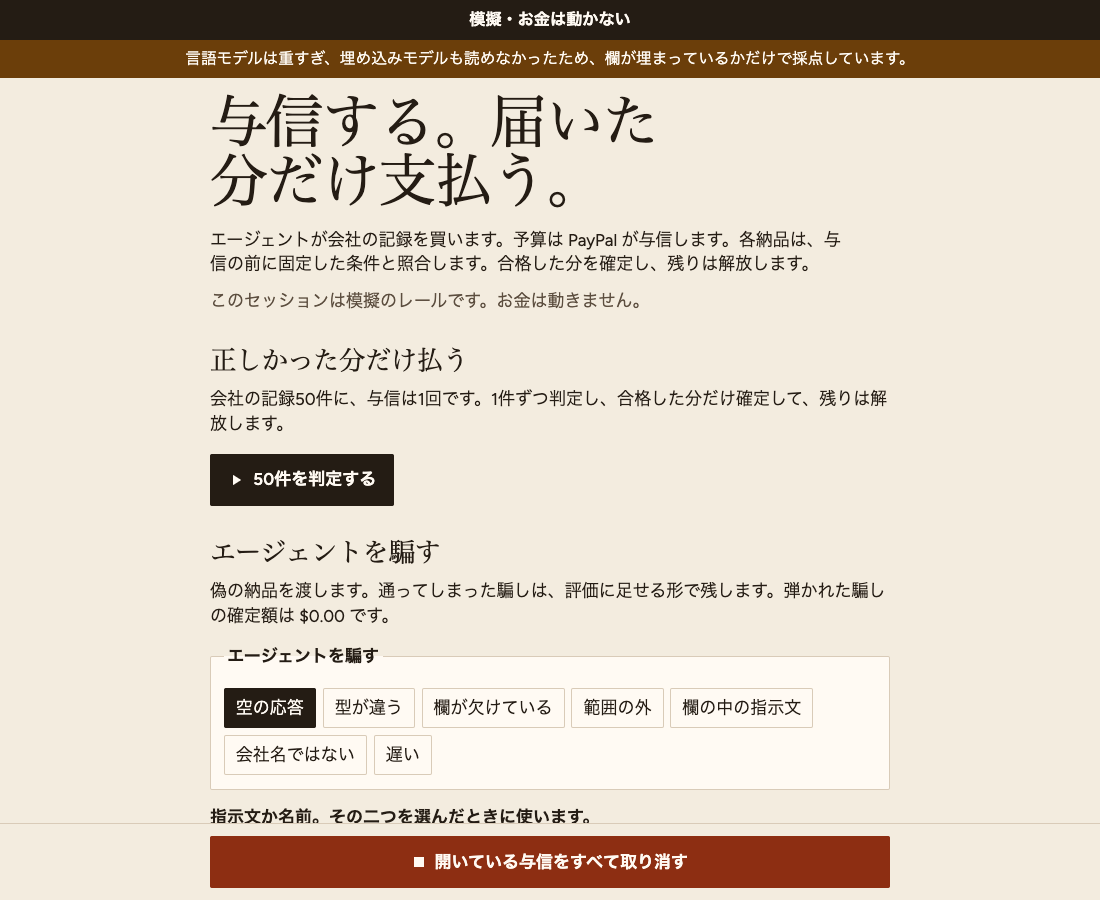
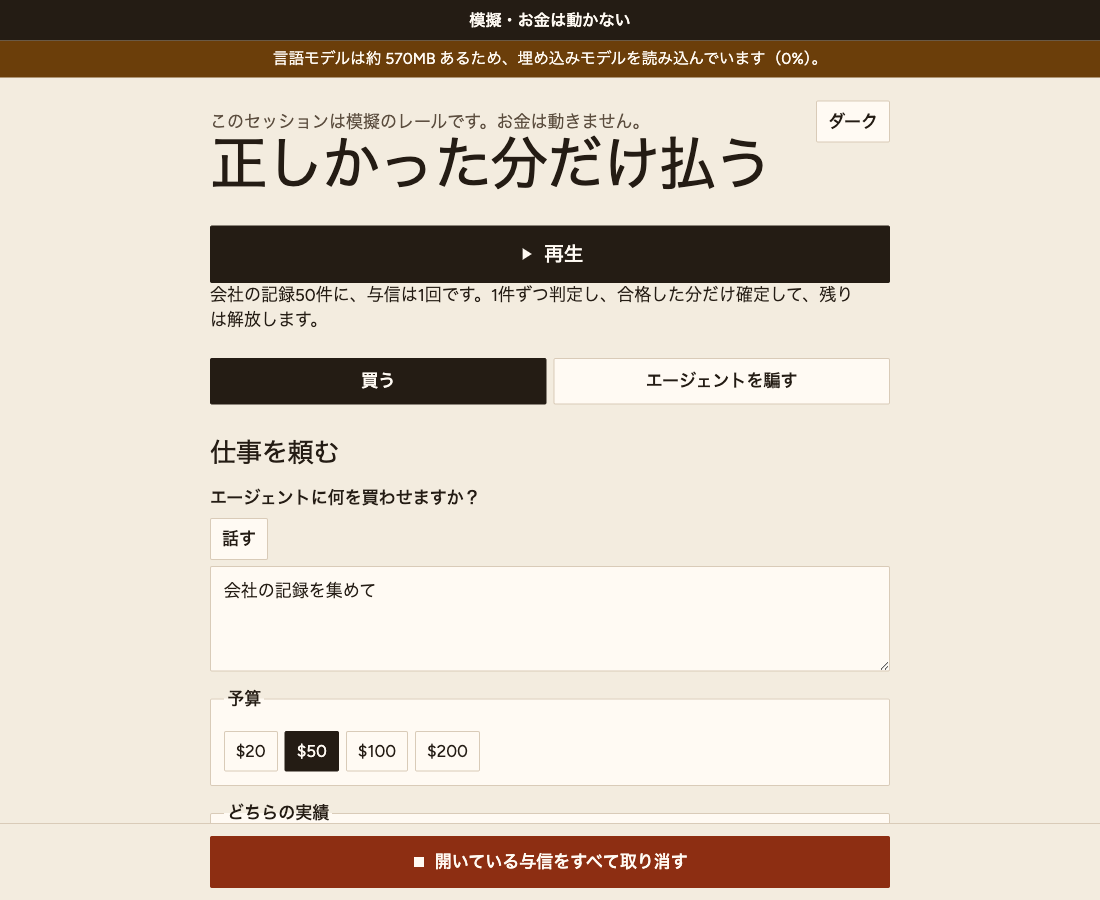
docs: time the first CAPTURED and retake the screens
Headless Chromium, not the Chrome app, reaches CAPTURED in 0.58s from navigation, and the saved frames are the 375px page, dark mode, and keyboard focus.

diff --git a/scripts/static-screens.ts b/scripts/static-screens.ts
@@ -1,5 +1,5 @@
 /**
- * Screenshots of the static demo. No dev server and no Google Chrome:
+ * Screenshots of the static demo, and the time from arrival to the first CAPTURED.
  * Playwright's own headless Chromium opens dist-static/index.html as a file.
  * No Google Chrome, and no dev server.
  * Build first with `npm run build:static`.
@@ -18,83 +18,91 @@ async function overflow(page: Page): Promise<number> {
 }
 
 async function played(page: Page): Promise<void> {
-  await page.getByTestId("demo-play").click();
-  await page.getByTestId("demo-left-status").waitFor();
-  const left = (await page.getByTestId("demo-left-status").innerText()).trim();
-  const right = (await page.getByTestId("demo-right-status").innerText()).trim();
-  if (left !== "CAPTURED" || right !== "VOIDED") throw new Error(`demo showed ${left} / ${right}`);
+  await page.getByTestId("pay-per-truth-play").click();
+  await page.getByTestId("first-captured").waitFor();
+  const word = (await page.getByTestId("first-captured").innerText()).trim();
+  if (word !== "CAPTURED") throw new Error(`first status was ${word}`);
 }
 
-const browser = await chromium.launch({ headless: true });
+const browser = await chromium.launch({
+  headless: true,
+  ...(process.env.PLAYWRIGHT_CHROMIUM ? { executablePath: process.env.PLAYWRIGHT_CHROMIUM } : {}),
+});
 
 try {
   await mkdir(out, { recursive: true });
-  const desktop = await browser.newPage({ viewport: { width: 1100, height: 900 } });
   const problems: string[] = [];
-  desktop.on("pageerror", (error) => problems.push(error.message));
-  await desktop.goto(pageUrl);
-  await desktop.getByTestId("sim-banner").waitFor();
-  const banner = (await desktop.getByTestId("sim-banner").innerText()).trim();
-  if (banner !== "Simulated. No money moves.") throw new Error(`banner: ${banner}`);
-  const heading = (await desktop.getByTestId("page-heading").innerText()).trim();
-  if (heading !== "Place a hold. Pay only for what arrived.") throw new Error(`default heading: ${heading}`);
-  if ((await desktop.locator("main").getAttribute("data-lang")) !== "en") throw new Error("default lang is not en");
-  await desktop.screenshot({ path: `${out}/static-en.png`, animations: "disabled" });
 
-  await played(desktop);
-  const lost = (await desktop.getByTestId("demo-right-summary").innerText()).trim();
-  if (lost !== "$0. Your agent didn't lose a cent.") throw new Error(`void summary: ${lost}`);
-  await desktop.getByTestId("demo-pair").scrollIntoViewIfNeeded();
-  const pair = await desktop.getByTestId("demo-pair").boundingBox();
-  if (!pair) throw new Error("demo pair has no box");
-  await desktop.screenshot({
-    path: `${out}/static-demo.png`,
-    clip: { x: 0, y: 0, width: 1100, height: Math.min(900, Math.ceil(pair.y + pair.height + 24)) },
-    animations: "disabled",
-  });
-  await desktop.getByRole("button", { name: "Show the approval card" }).click();
-  await desktop.getByTestId("approval-card").waitFor();
-  await desktop.getByRole("button", { name: "Place the hold" }).click();
-  await desktop.getByTestId("stop-button").click();
-  if ((await desktop.getByTestId("stop-button").innerText()).trim() !== "Stopped") throw new Error("stop did not engage");
+  const timed = await browser.newPage({ viewport: { width: 375, height: 812 } });
+  timed.on("pageerror", (error) => problems.push(error.message));
+  const started = Date.now();
+  await timed.goto(pageUrl);
+  await timed.getByTestId("sim-banner").waitFor();
+  const banner = (await timed.getByTestId("sim-banner").innerText()).trim();
+  if (banner !== "Simulated. No money moves.") throw new Error(`banner: ${banner}`);
+  const heading = (await timed.getByTestId("page-heading").innerText()).trim();
+  if (heading !== "Pay per truth") throw new Error(`default heading: ${heading}`);
+  if ((await timed.locator("main").getAttribute("data-lang")) !== "en") throw new Error("default lang is not en");
+  await played(timed);
+  const seconds = (Date.now() - started) / 1000;
+  console.log(`first CAPTURED ${seconds.toFixed(2)}s`);
+  if (seconds > 10) throw new Error(`first CAPTURED took ${seconds.toFixed(2)}s`);
+  await timed.screenshot({ path: `${out}/static-375.png`, animations: "disabled" });
+  await timed.getByRole("button", { name: "Show the plan" }).click();
+  await timed.getByTestId("approval-card").waitFor();
+  await timed.getByRole("button", { name: "Continue to approval" }).click();
+  const mock = (await timed.getByTestId("mock-approval").innerText()).trim();
+  if (!mock.includes("PAYPAL_CLIENT_ID is not set")) throw new Error(`mock sheet: ${mock}`);
+  const wide = await overflow(timed);
+  if (wide > 1) throw new Error(`375px page is ${wide}px too wide`);
+  await timed.screenshot({ path: `${out}/static-en.png`, animations: "disabled" });
+
+  const dark = await browser.newPage({ viewport: { width: 375, height: 812 }, colorScheme: "dark" });
+  dark.on("pageerror", (error) => problems.push(error.message));
+  await dark.goto(pageUrl);
+  await dark.getByTestId("pay-per-truth-play").waitFor();
+  const paper = await dark.evaluate(() => getComputedStyle(document.body).backgroundColor);
+  if (paper !== "rgb(22, 19, 15)") throw new Error(`dark paper: ${paper}`);
+  await dark.screenshot({ path: `${out}/static-dark.png`, animations: "disabled" });
+
+  const keys = await browser.newPage({ viewport: { width: 1100, height: 800 } });
+  keys.on("pageerror", (error) => problems.push(error.message));
+  await keys.goto(pageUrl);
+  await keys.getByTestId("pay-per-truth-play").waitFor();
+  for (let i = 0; i < 6; i++) {
+    await keys.keyboard.press("Tab");
+    const name = await keys.evaluate(() => document.activeElement?.getAttribute("data-testid"));
+    if (name === "pay-per-truth-play") break;
+  }
+  const focused = await keys.evaluate(() => document.activeElement?.getAttribute("data-testid"));
+  if (focused !== "pay-per-truth-play") throw new Error(`keyboard focus landed on ${focused}`);
+  await keys.screenshot({ path: `${out}/static-keyboard.png`, animations: "disabled" });
 
   const japanese = await browser.newPage({ viewport: { width: 1100, height: 900 } });
   await japanese.goto(`${pageUrl}?lang=ja`);
   await japanese.getByTestId("page-heading").waitFor();
   const jaHeading = (await japanese.getByTestId("page-heading").innerText()).trim();
-  if (jaHeading !== "与信する。届いた分だけ支払う。") throw new Error(`ja heading: ${jaHeading}`);
+  if (jaHeading !== "正しかった分だけ払う") throw new Error(`ja heading: ${jaHeading}`);
   if ((await japanese.getByTestId("sim-banner").innerText()).trim() !== "模擬・お金は動かない") throw new Error("ja banner changed");
   await japanese.screenshot({ path: `${out}/static-ja.png`, animations: "disabled" });
+  const phoneJa = await browser.newPage({ viewport: { width: 375, height: 812 } });
+  await phoneJa.goto(`${pageUrl}?lang=ja`);
+  await phoneJa.getByTestId("sim-banner").waitFor();
+  const wideJa = await overflow(phoneJa);
+  if (wideJa > 1) throw new Error(`375px Japanese page is ${wideJa}px too wide`);
 
-  const phone = await browser.newPage({ viewport: { width: 375, height: 1200 } });
-  await phone.goto(`${pageUrl}?lang=ja`);
-  await phone.getByTestId("sim-banner").waitFor();
-  await played(phone);
-  const jaLost = (await phone.getByTestId("demo-right-summary").innerText()).trim();
-  if (!jaLost.startsWith("$0")) throw new Error(`ja void amount: ${jaLost}`);
-  await phone.screenshot({ path: `${out}/static-375.png`, animations: "disabled" });
-  await phone.getByRole("button", { name: "承認カードを表示" }).click();
-  await phone.getByTestId("approval-card").waitFor();
-  const wide = await overflow(phone);
-  if (wide > 1) throw new Error(`375px page is ${wide}px too wide`);
-
-  const phoneEn = await browser.newPage({ viewport: { width: 375, height: 812 } });
-  await phoneEn.goto(pageUrl);
-  await played(phoneEn);
-  await phoneEn.getByRole("button", { name: "Show the approval card" }).click();
-  await phoneEn.getByTestId("approval-card").waitFor();
-  const wideEn = await overflow(phoneEn);
-  if (wideEn > 1) throw new Error(`375px English page is ${wideEn}px too wide`);
   if (problems.length) throw new Error(problems.join("\n"));
-  await desktop.close();
+  await timed.close();
+  await dark.close();
+  await keys.close();
   await japanese.close();
-  await phone.close();
-  await phoneEn.close();
+  await phoneJa.close();
 } finally {
   await browser.close();
 }
 
-console.log(`${out}/static-en.png`);
-console.log(`${out}/static-demo.png`);
-console.log(`${out}/static-ja.png`);
 console.log(`${out}/static-375.png`);
+console.log(`${out}/static-dark.png`);
+console.log(`${out}/static-keyboard.png`);
+console.log(`${out}/static-en.png`);
+console.log(`${out}/static-ja.png`);

diff --git a/scripts/screenshots.ts b/scripts/screenshots.ts
@@ -1,5 +1,6 @@
 /**
- * Saves the Day 2 screens. Expects `npm run dev` already listening on port 5173.
+ * Saves the live screen. Expects `npm run dev` already listening on port 5173.
+ * Uses Playwright's headless Chromium. It does not launch the Google Chrome app.
  */
 import { mkdir } from "node:fs/promises";
 import { chromium } from "playwright";
@@ -24,46 +25,34 @@ async function waitUp(): Promise<void> {
 await waitUp();
 await mkdir(out, { recursive: true });
 
-const browser = await chromium.launch({ channel: "chrome" });
-const page = await browser.newPage({ viewport: { width: 390, height: 844 } });
-await page.goto(base, { waitUntil: "domcontentloaded" });
-await page.getByTestId("demo-play").click();
-await page.getByTestId("demo-left-status").waitFor();
-const left = (await page.getByTestId("demo-left-status").innerText()).trim();
-const right = (await page.getByTestId("demo-right-status").innerText()).trim();
-const lost = (await page.getByTestId("demo-right-summary").innerText()).trim();
-if (left !== "CAPTURED" || right !== "VOIDED" || !lost.includes("didn't lose a cent")) {
-  throw new Error(`demo showed ${left} / ${right} / ${lost}`);
-}
-await page.screenshot({ path: `${out}/demo-mobile.png`, animations: "disabled" });
-
-await page.setViewportSize({ width: 1100, height: 900 });
-await page.getByTestId("demo-pair").scrollIntoViewIfNeeded();
-const pair = await page.getByTestId("demo-pair").boundingBox();
-if (!pair) throw new Error("demo pair has no box");
-await page.screenshot({
-  path: `${out}/demo-captured-voided.png`,
-  clip: { x: 0, y: 0, width: 1100, height: Math.min(900, Math.ceil(pair.y + pair.height + 28)) },
-  animations: "disabled",
+const browser = await chromium.launch({
+  headless: true,
+  ...(process.env.PLAYWRIGHT_CHROMIUM ? { executablePath: process.env.PLAYWRIGHT_CHROMIUM } : {}),
 });
+const page = await browser.newPage({ viewport: { width: 390, height: 844 } });
+const started = Date.now();
+await page.goto(base, { waitUntil: "domcontentloaded" });
+await page.getByTestId("pay-per-truth-play").click();
+await page.getByTestId("first-captured").waitFor();
+const word = (await page.getByTestId("first-captured").innerText()).trim();
+if (word !== "CAPTURED") throw new Error(`first status was ${word}`);
+console.log(`first CAPTURED ${((Date.now() - started) / 1000).toFixed(2)}s`);
+await page.screenshot({ path: `${out}/pay-per-truth.png`, animations: "disabled" });
 
-await page.getByRole("button", { name: "Show the approval card" }).click();
+await page.getByRole("button", { name: "Show the plan" }).click();
 await page.getByTestId("approval-seller-line").waitFor();
 const seller = (await page.getByTestId("approval-seller-line").innerText()).trim();
-const condition = (await page.getByTestId("approval-condition-id").innerText()).trim();
 if (!/^\d+ paid purchases, \d+\.\d% matched the promised shape, \d+\.\d% errors after payment$/.test(seller)) {
   throw new Error(`seller line: ${seller}`);
 }
-if (!/^cond_[0-9a-f]{64}$/.test(condition)) throw new Error(`condition id: ${condition}`);
-await page.addStyleTag({ content: ".stopbar{display:none !important}" });
-await page.getByRole("button", { name: "Place the hold" }).waitFor();
+await page.getByRole("button", { name: "Continue to approval" }).click();
+await page.getByTestId("mock-approval").waitFor();
 await page.getByTestId("approval-card").screenshot({ path: `${out}/approval-card.png`, animations: "disabled" });
-await page.getByRole("button", { name: "Capture" }).first().waitFor();
-await page.getByTestId("review-grid").scrollIntoViewIfNeeded();
-await page.getByTestId("review-grid").screenshot({ path: `${out}/review-queue.png`, animations: "disabled" });
+
+await page.getByRole("tab", { name: "Scam my agent" }).click();
+await page.getByTestId("scam-bench").screenshot({ path: `${out}/scam-my-agent.png`, animations: "disabled" });
 
 await browser.close();
-console.log(`${out}/demo-mobile.png`);
-console.log(`${out}/demo-captured-voided.png`);
+console.log(`${out}/pay-per-truth.png`);
 console.log(`${out}/approval-card.png`);
-console.log(`${out}/review-queue.png`);
+console.log(`${out}/scam-my-agent.png`);

diff --git a/README.md b/README.md
@@ -27,6 +27,8 @@ The public demo URL is TBD as of 2026-11-07. Nothing in this repository is a hos
 
 `npm test` needs no key and no network. `npm run dev` serves the API on port 8787 and the screen on port 5173. Leave `PAYPAL_ENV` unset and the screen stays on the mock.
 
+On 2026-11-07, Playwright's headless Chromium opened the static page (`npm run build:static`, then `npm run screens:static`) at 375px wide, clicked **Play**, and read the first `CAPTURED`. The clock started when navigation started. It took **0.58s**. The target is under 10 seconds. That run does not launch the Google Chrome app.
+
 ## May it pay?
 
 All of these must hold, checked in code before PayPal is called:
